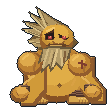
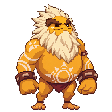
Replace Darunia portrait with reference-based pixel art

diff --git a/components/zeldabonk-showcase.tsx b/components/zeldabonk-showcase.tsx
@@ -65,7 +65,7 @@ export function ZeldaBonkShowcase({ liveUrl }: { liveUrl?: string | null }) {
         <Image src={hero.src} alt={hero.alt} width={112} height={112} loading="lazy"/>
         <strong>{hero.name}</strong><span className="bonk-character-role">{hero.role}</span><span>{hero.style}</span>
       </button>)}</div>
-      <p className="bonk-source-note">Original roster and Ocarina of Time allies, as shown in ZeldaBonk. Screenshots and PNG portraits captured from the live game. Unofficial fan game; not affiliated with Nintendo.</p>
+      <p className="bonk-source-note">Original roster and Ocarina of Time allies, as shown in ZeldaBonk. Screenshots and ten PNG portraits captured from the live game. Darunia uses custom pixel art based on the supplied model reference. Unofficial fan game; not affiliated with Nintendo.</p>
     </section>
 
     <dialog ref={dialog} className="bonk-lightbox" aria-label="ZeldaBonk image viewer" onKeyDown={keyboard} onClose={() => { setExpanded(null); opener.current?.focus({ preventScroll: true }); }}>

diff --git a/lib/zeldabonk-media.ts b/lib/zeldabonk-media.ts
@@ -29,4 +29,4 @@ export const gameHeroes = [
   { id: 'darunia', name: 'Darunia', role: 'Sage of Fire', style: 'Heavy hammer strikes and a Goron Body Slam.' },
   { id: 'ruto', name: 'Ruto', role: 'Sage of Water', style: 'Water attacks that push enemies back.' },
   { id: 'nabooru', name: 'Nabooru', role: 'Sage of Spirit', style: 'Iron Knuckle axe attacks and a Spirit Medallion story scene.' }
-].map(hero => ({ ...hero, src: `${base}/character-${hero.id}.png`, title: hero.name, alt: `${hero.name} character artwork exported from ZeldaBonk.`, caption: `${hero.role}. ${hero.style}` }));
+].map(hero => ({ ...hero, src: `${base}/character-${hero.id}.png`, title: hero.name, alt: hero.id === 'darunia' ? 'Custom Darunia pixel art with golden skin, an ivory mane and beard, white markings, and brown wrist cuffs.' : `${hero.name} character artwork exported from ZeldaBonk.`, caption: `${hero.role}. ${hero.style}${hero.id === 'darunia' ? ' Custom portfolio portrait based on the supplied model reference.' : ''}` }));

diff --git a/public/images/projects/zeldabonk/README.md b/public/images/projects/zeldabonk/README.md
@@ -6,6 +6,8 @@ Captured/exported on 26 November 2026 from https://zelabonk.vercel.app/ using th
 - `gameplay.jpg`: Zelda with Light Arrows in the Great Sea Training Grounds, with practice rivals spawned through the normal controls.
 - `sealing-power.jpg`: Zelda using Sealing Power in that training arena.
 - `map-*.jpg`: all eight realms selected through the title menu's Realm picker. Locked campaign labels are left visible; these are menu previews, not a claim of completed/unlocked saves.
-- `character-*.png`: all eleven original PNG portraits exported from the rendered hero roster's image elements, including locked characters. The game offers every hero in Training Grounds. PNG transparency and the original 112 × 112 dimensions are preserved.
+- `character-*.png`: ten original PNG portraits (all except Darunia) exported from the rendered hero roster's image elements, including locked characters. The game offers every hero in Training Grounds. PNG transparency and the original 112 × 112 dimensions are preserved.
 
-Screenshots use the browser's actual 657 × 559 viewport, saved as JPEG without fabricated scenes or edits. No generated artwork or invented gameplay screenshots are used. Zelda characters belong to their respective rights holders; this is an unofficial fan portfolio and game, not Nintendo endorsement.
+Screenshots use the browser's actual 657 × 559 viewport, saved as JPEG without fabricated scenes or edits. No invented gameplay screenshots are used. Darunia’s portrait was replaced with custom AI-assisted pixel art using the owner’s supplied model reference; it is portfolio artwork, not an export from the game. Zelda characters belong to their respective rights holders; this is an unofficial fan portfolio and game, not Nintendo endorsement.
+
+Darunia replacement: generated with the built-in imagegen tool, then normalized to a transparent 112 × 112 PNG with nearest-neighbor sampling. Prompt: full-body pixel-art Darunia matching the supplied golden Goron model, ivory mane and beard, thick brown eyebrows, white tribal markings, brown cuffs and maroon loincloth; transparent square framing, no text or weapons.
